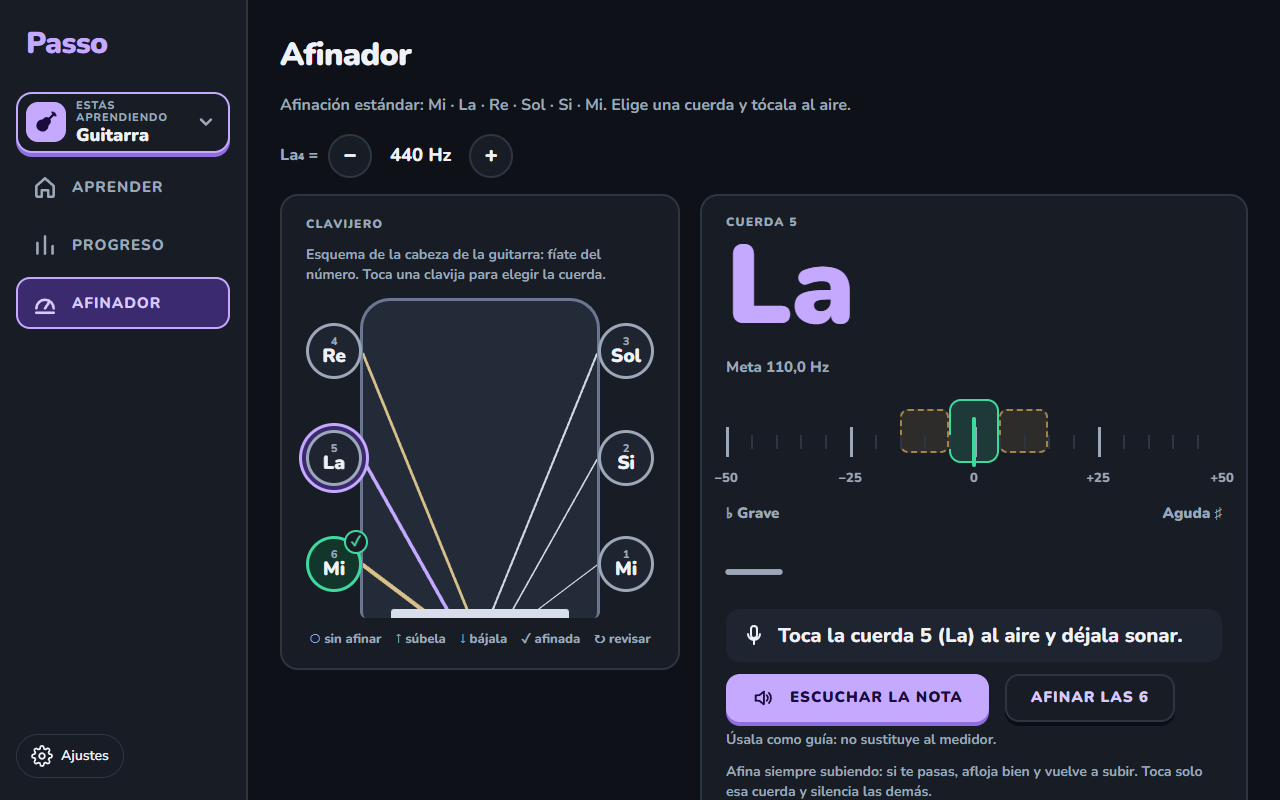
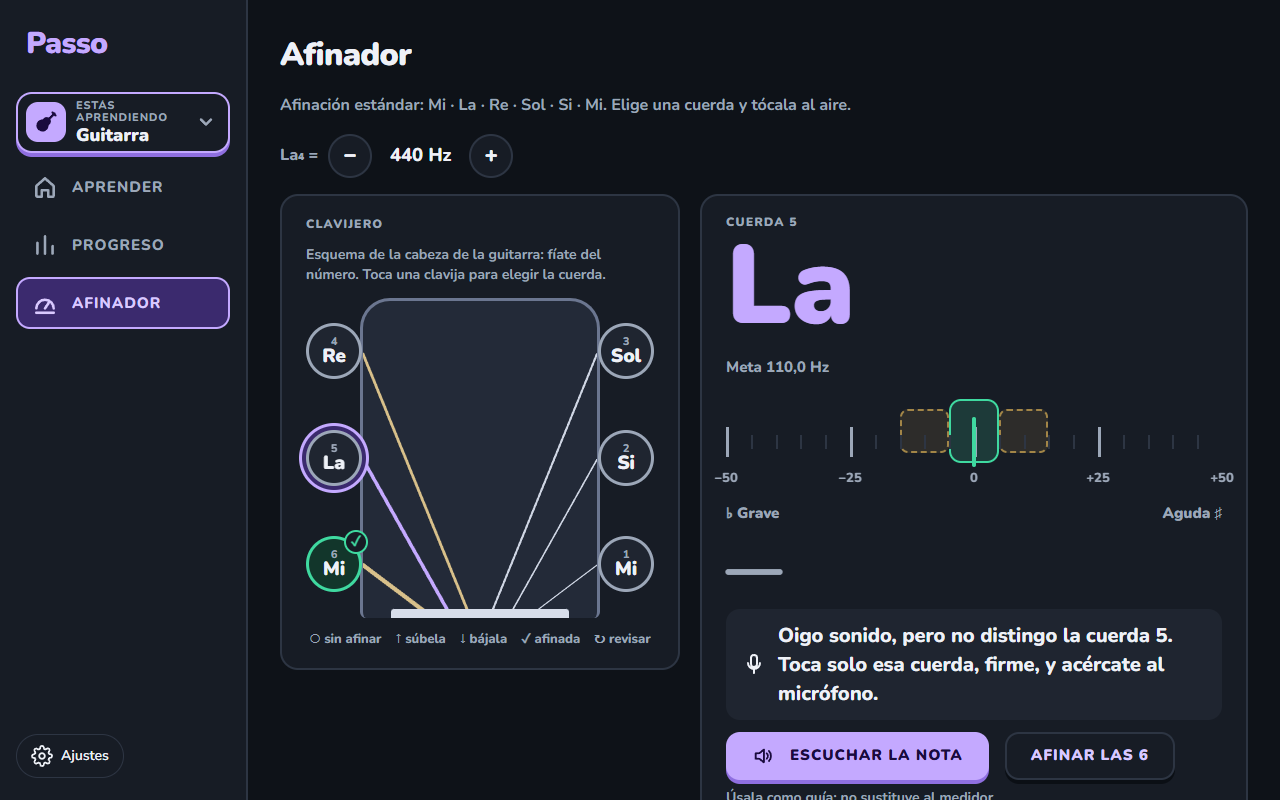
fix: el afinador lee guitarras reales (umbral de sonido más bajo, mantiene la última lectura 1,5 s y opina con 3 lecturas; ignora tonos de otra cuerda y avisa si oye sonido sin distinguir la nota)

Changed region(s): [[0.5625, 0.7812, 0.9375, 1.0]]

diff --git a/src/ui/screens/TunerScreen.tsx b/src/ui/screens/TunerScreen.tsx
@@ -109,10 +109,10 @@ function HintGlyph({ icon }: { readonly icon: HintIcon }) {
  * Lo único que el afinador necesita del monitor del micrófono: la fase y el aviso. El monitor emite unas 15
  * veces por segundo (el nivel); así la pantalla no se redibuja con cada una.
  */
-function useMonitorSlice(
-  monitor: InputMonitor | undefined,
-): Pick<MonitorSnapshot, 'phase' | 'hint'> {
-  const cache = useRef<Pick<MonitorSnapshot, 'phase' | 'hint'>>({ phase: 'apagado', hint: null });
+type MonitorSlice = Pick<MonitorSnapshot, 'phase' | 'hint'> & { readonly loud: boolean };
+
+function useMonitorSlice(monitor: InputMonitor | undefined): MonitorSlice {
+  const cache = useRef<MonitorSlice>({ phase: 'apagado', hint: null, loud: false });
   const subscribe = useCallback(
     (onChange: () => void) => (monitor ? monitor.subscribeMonitor(onChange) : () => undefined),
     [monitor],
@@ -120,8 +120,11 @@ function useMonitorSlice(
   const getSnapshot = useCallback(() => {
     const current = monitor ? monitor.getMonitor() : SILENT_MONITOR;
     const last = cache.current;
-    if (last.phase === current.phase && last.hint === current.hint) return last;
-    cache.current = { phase: current.phase, hint: current.hint };
+    // «Alto»: el nivel pasa el umbral de sonido (se oye algo aunque no se distinga la nota).
+    const loud = current.level > 0 && current.level >= current.gateLevel;
+    if (last.phase === current.phase && last.hint === current.hint && last.loud === loud)
+      return last;
+    cache.current = { phase: current.phase, hint: current.hint, loud };
     return cache.current;
   }, [monitor]);
   return useSyncExternalStore(subscribe, getSnapshot);
@@ -215,6 +218,7 @@ export function TunerScreen({ tuner, microphone, notation }: TunerScreenProps) {
     name,
     listening,
     weakHint: monitor.hint === 'debil' ? hintText(monitor.hint) : null,
+    loud: monitor.loud,
   });
 
   const target = stringFrequency(snapshot.string, { referenceHz: snapshot.referenceHz });

diff --git a/tests/integration/tuner-service.test.ts b/tests/integration/tuner-service.test.ts
@@ -87,14 +87,41 @@ describe('TunerService', () => {
     expect(pitch.searches).toEqual([]);
   });
 
-  it('sin sonido durante medio segundo vuelve a «sin sonido»', () => {
+  it('sin sonido durante 1,5 s vuelve a «sin sonido» (antes mantiene la última lectura)', () => {
     const { tuner, pitch, clock, play } = setup();
     tuner.open();
     play(1, 15, 500);
     expect(tuner.getSnapshot().status).toBe('alta');
     clock.advance(600);
     pitch.emit(null);
+    expect(tuner.getSnapshot().status).toBe('alta');
+    clock.advance(1000);
+    pitch.emit(null);
     expect(tuner.getSnapshot().status).toBe('sin-sonido');
+  });
+
+  it('un tono a más de 300 cents de la cuerda (otra cuerda) no se mide', () => {
+    const { tuner, play } = setup();
+    tuner.open();
+    tuner.selectString(1);
+    play(6, 0, 800);
+    expect(tuner.getSnapshot()).toMatchObject({ status: 'sin-sonido', cents: null });
+  });
+
+  it('con pocas lecturas por segundo (una cuerda que se apaga) igual muestra los cents', () => {
+    const { tuner, pitch, clock } = setup();
+    tuner.open();
+    tuner.selectString(1);
+    // Una lectura cada 100 ms, como un detector que acierta a ratos con una cuerda real.
+    for (let n = 0; n < 12; n++) {
+      clock.advance(100);
+      pitch.emit({
+        frequency: stringFrequency(1) * 2 ** (-30 / 1200),
+        clarity: 0.8,
+        at: clock.now(),
+      });
+    }
+    expect(tuner.getSnapshot()).toMatchObject({ status: 'baja', cents: -30 });
   });
 
   it('si la cuerda se calla, los avisos de silencio seguidos devuelven a «sin sonido»', () => {
@@ -102,7 +129,7 @@ describe('TunerService', () => {
     tuner.open();
     play(1, -20, 500);
     expect(tuner.getSnapshot().status).toBe('baja');
-    for (let i = 0; i < 40; i++) {
+    for (let i = 0; i < 80; i++) {
       clock.advance(20);
       pitch.emit(null);
     }

diff --git a/src/ui/screens/tuner-messages.ts b/src/ui/screens/tuner-messages.ts
@@ -59,7 +59,12 @@ export function tunerHint(
   snapshot: Pick<TunerSnapshot, 'status' | 'far' | 'near' | 'string' | 'tone'> & {
     readonly guided?: Pick<GuidedView, 'paused'> | null;
   },
-  context: { readonly name: string; readonly listening: boolean; readonly weakHint: string | null },
+  context: {
+    readonly name: string;
+    readonly listening: boolean;
+    readonly weakHint: string | null;
+    readonly loud?: boolean;
+  },
 ): TunerHint {
   if (snapshot.guided?.paused === true) {
     return { text: 'Guía en pausa. Pulsa «Seguir» cuando quieras.', icon: 'wait' };
@@ -94,6 +99,12 @@ export function tunerHint(
       return { text: 'Lista. Puedes pasar a la siguiente cuerda.', icon: 'check' };
     case 'sin-sonido':
       if (!context.listening) return { text: '', icon: null };
+      if (context.loud === true && context.weakHint === null) {
+        return {
+          text: `Oigo sonido, pero no distingo la cuerda ${snapshot.string}. Toca solo esa cuerda, firme, y acércate al micrófono.`,
+          icon: 'listen',
+        };
+      }
       return {
         text:
           context.weakHint ??

diff --git a/src/core/domain/tuner.ts b/src/core/domain/tuner.ts
@@ -16,12 +16,15 @@ export const IN_TUNE_HOLD_MS = 600;
 /** …y deja de estarlo al salir de ±8 (así no parpadea alrededor del límite). */
 export const OUT_OF_TUNE_CENTS = 8;
 /** Lecturas mínimas para opinar, y cuánto tiempo hacia atrás cuentan. */
-export const MIN_READINGS = 5;
-export const READING_WINDOW_MS = 350;
+export const MIN_READINGS = 3;
+export const READING_WINDOW_MS = 600;
 /** Tras empezar a sonar, la cuerda «se asienta»: el ataque sube unos 10–30 cents un momento. */
-export const SETTLE_MS = 250;
-/** Sin lecturas durante este tiempo, vuelve a «sin sonido»; «Afinada» se deja ver más tiempo. */
-export const SILENCE_MS = 500;
+export const SETTLE_MS = 150;
+/**
+ * Sin lecturas durante este tiempo, vuelve a «sin sonido»; «Afinada» se deja ver más tiempo. Una cuerda
+ * pulsada se apaga sola y el detector la pierde a ratos: la última lectura se mantiene un momento.
+ */
+export const SILENCE_MS = 1500;
 export const TUNED_SILENCE_MS = 2000;
 /** Entre ±5 y ±15 cents la cuerda está «casi» (zona ámbar); más allá, claramente grave o aguda. */
 export const NEAR_CENTS = 15;

diff --git a/src/core/application/tuner-service.ts b/src/core/application/tuner-service.ts
@@ -20,6 +20,7 @@ import { StringBoard, sameMarks } from '../domain/string-board';
 import type { StringMarks } from '../domain/string-board';
 import {
   NO_SOUND,
+  SEARCH_CENTS,
   TunerTracker,
   centsFrom,
   isValidReference,
@@ -275,10 +276,10 @@ export class TunerService {
     if (this.playing || now < this.mutedUntil) return;
     if (this.run?.paused === true) return;
     const target = stringFrequency(this.snapshot.string, this.options());
-    const state =
-      reading === null
-        ? this.tracker.push(null, now)
-        : this.tracker.push(centsFrom(target, reading.frequency), reading.at);
+    // Un tono fuera del intervalo de la cuerda (p. ej. la anterior que aún suena) es como no oír nada.
+    const cents = reading === null ? null : centsFrom(target, reading.frequency);
+    const inRange = cents !== null && Math.abs(cents) <= SEARCH_CENTS;
+    const state = this.tracker.push(inRange ? cents : null, now);
     this.remember(state, now);
     if (this.run !== null && !isFinished(this.run)) {
       const progress = holdProgress(state.status, this.heldSince, now);

diff --git a/src/adapters/microphone/microphone-input.ts b/src/adapters/microphone/microphone-input.ts
@@ -403,7 +403,9 @@ export class MicrophoneInput
     const range = this.pitchSearch;
     if (range === null) return;
     let reading: PitchReading | null = null;
-    if (state.phase === 'escuchando' && rms >= state.gate) {
+    // El umbral del afinador es más bajo que el de las notas: una cuerda pulsada se apaga y no debe perderse.
+    const tunerGate = Math.max(state.noiseFloor * 2, state.gate * 0.5);
+    if (state.phase === 'escuchando' && rms >= tunerGate) {
       const window = samples.subarray(Math.max(0, samples.length - FFT_SIZE));
       const estimate = detectPitch(window, sampleRate, range);
       if (
